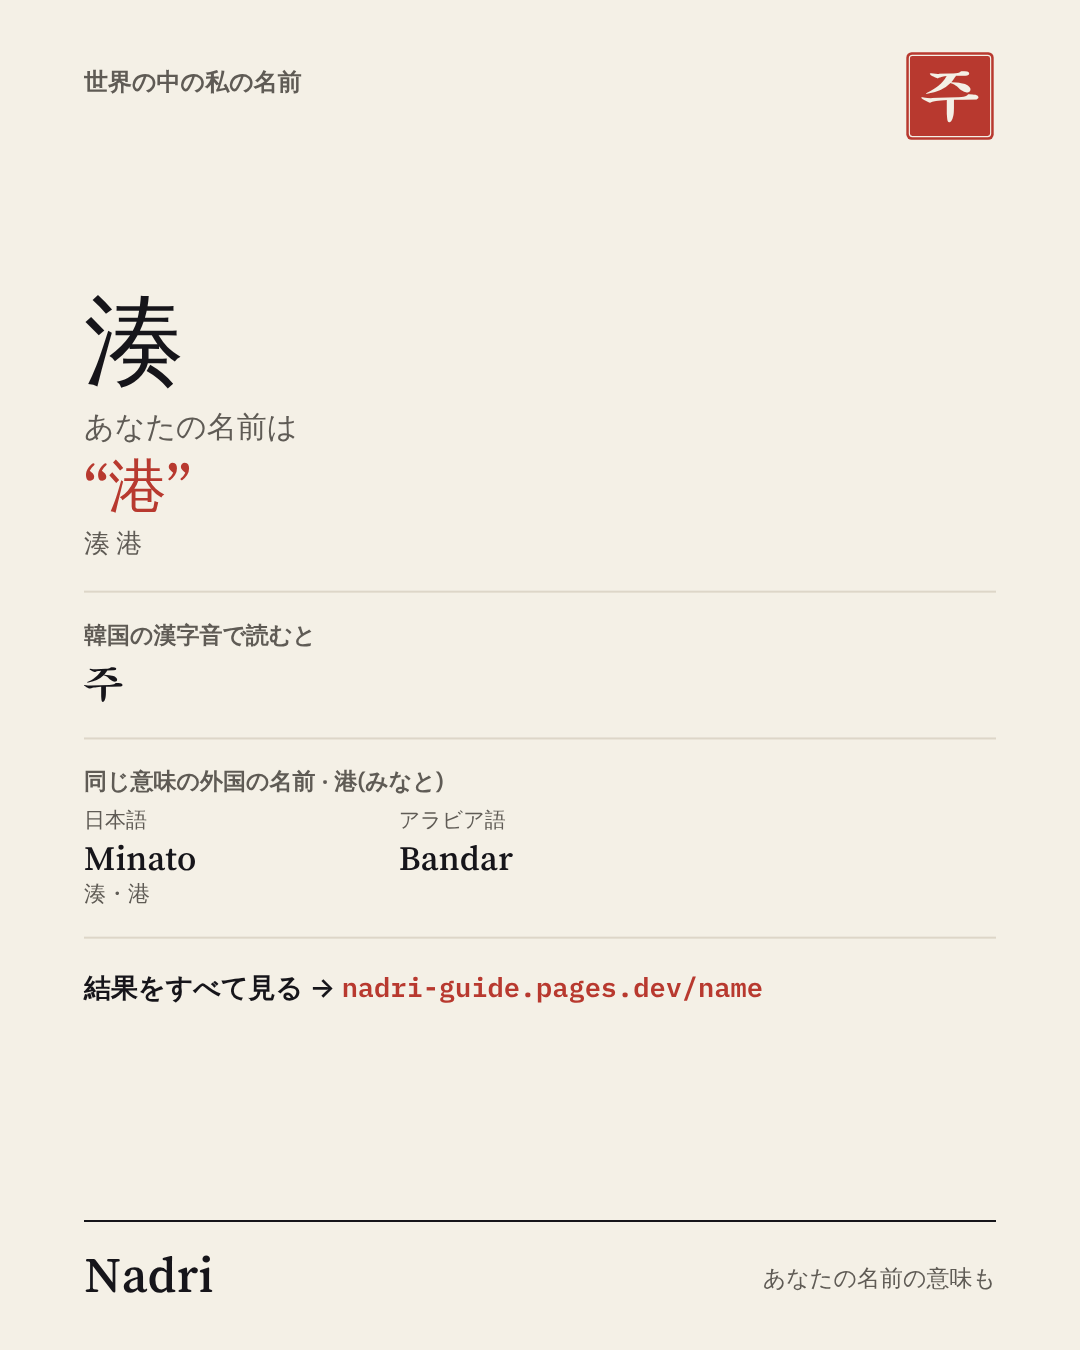
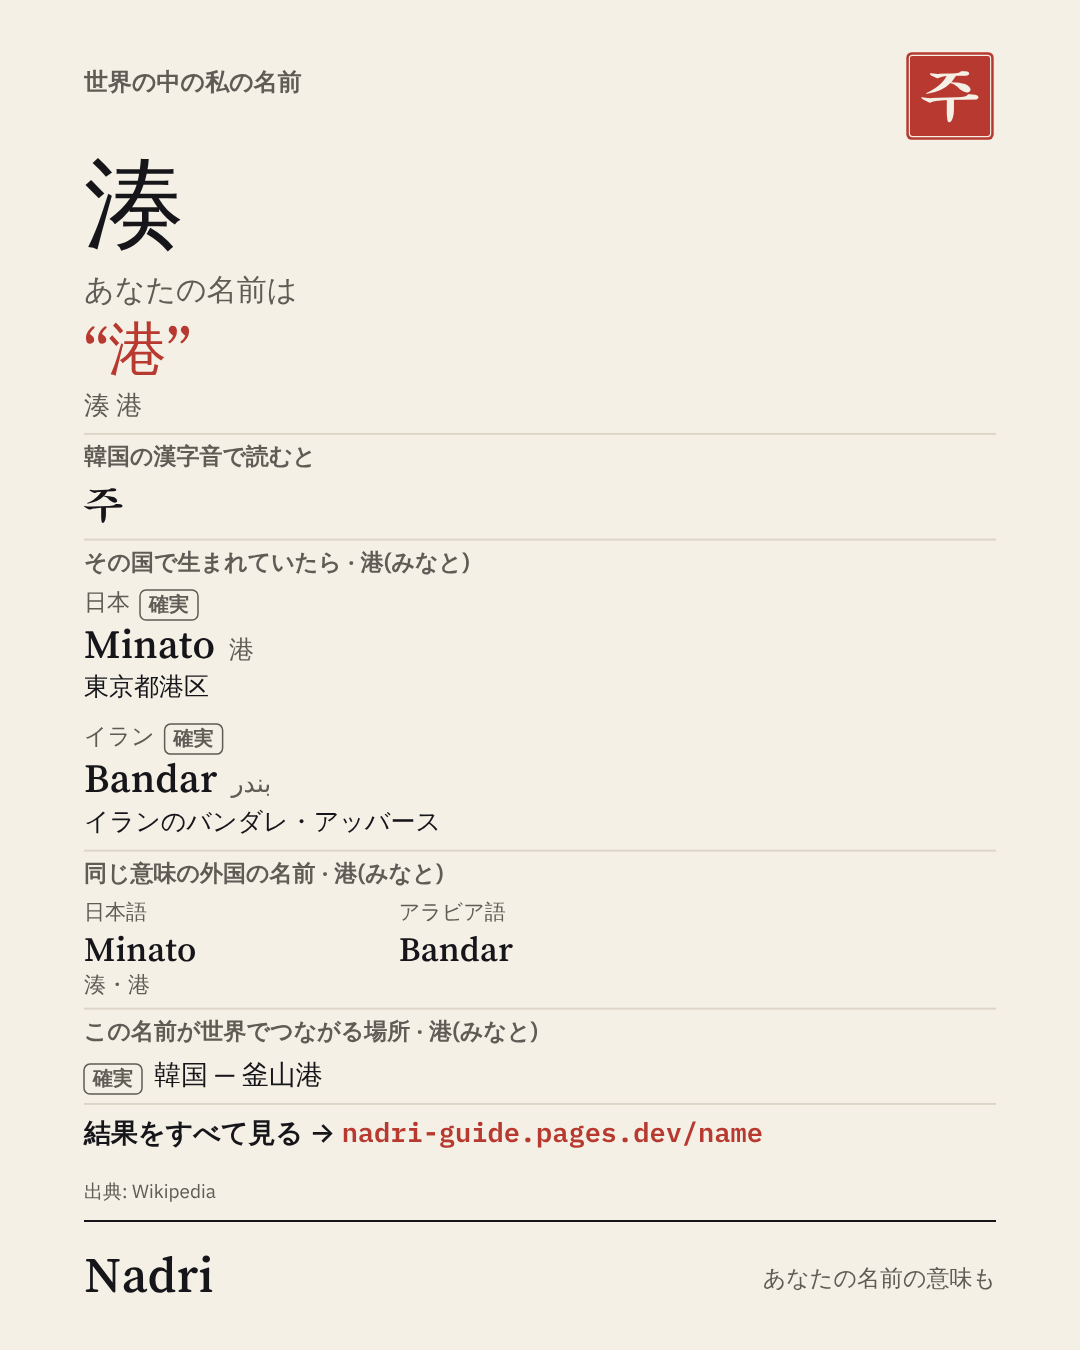
이름 도구: 세계 항목 항구(도쿄 미나토구·반다르아바스·부산항)·초록(미도리노히·Chloe 데메테르·보성 녹차밭), 지역 이란, 항목별 확인일 유지; 湊·翠 카드 갱신
Claude-Session: https://claude.ai/code/session_01SuqWfEwhdH8js6VToC8bPd

diff --git a/static/name-world.js b/static/name-world.js
@@ -18,6 +18,7 @@ window.NADRI_REGIONS = {
   IT: ['🇮🇹', { ko: '이탈리아', en: 'Italy', ja: 'イタリア', zh: '義大利' }],
   VA: ['🇻🇦', { ko: '바티칸', en: 'Vatican City', ja: 'バチカン', zh: '梵蒂岡' }],
   GR: ['🇬🇷', { ko: '그리스', en: 'Greece', ja: 'ギリシャ', zh: '希臘' }],
+  IR: ['🇮🇷', { ko: '이란', en: 'Iran', ja: 'イラン', zh: '伊朗' }],
   TR: ['🇹🇷', { ko: '튀르키예', en: 'Türkiye', ja: 'トルコ', zh: '土耳其' }],
   UA: ['🇺🇦', { ko: '우크라이나', en: 'Ukraine', ja: 'ウクライナ', zh: '烏克蘭' }],
   RU: ['🇷🇺', { ko: '러시아', en: 'Russia', ja: 'ロシア', zh: '俄羅斯' }],
@@ -457,10 +458,51 @@ window.NADRI_REGIONS = {
         ja: 'チリの首都サンティアゴは1541年2月12日、「サンティアゴ・デル・ヌエボ・エストレモ」として創設され、聖ヤコブにちなんで名付けられました。',
         zh: '智利首都聖地牙哥在 1541 年 2 月 12 日以「新極地聖地牙哥」之名建立,名字來自聖雅各。' },
       { r: 'KR', chain: 'santiago' }
+    ],
+    /* 2026-11-28: concepts for common Japanese names (湊 harbour, 翠 green). Pages read 2026-11-28, saved in wondu-archive raw-from-scratchpad/names-2026-11-28/world/. */
+    harbour: [
+      { r: 'JP', n: 'Minato', nn: '港', g: { ko: '도쿄 미나토구(港区)', en: 'Minato City, Tokyo', ja: '東京都港区', zh: '東京都港區' }, c: 'h', d: '2026-11-28',
+        s: [['Wikipedia: Minato, Tokyo', 'https://en.wikipedia.org/wiki/Minato,_Tokyo']],
+        ko: '도쿄의 특별구 미나토구(港区)는 이름에 항구(港, 미나토)를 그대로 써요. 일본어에서 보통명사 미나토는 항구라는 뜻이에요.',
+        en: 'Minato (港区) is a special ward of Tokyo. As a common noun, minato means harbor.',
+        ja: '東京の特別区・港区。普通名詞の「みなと」は港という意味です。',
+        zh: '東京的特別區「港區」(Minato)。日文普通名詞「みなと」就是港口的意思。' },
+      { r: 'IR', n: 'Bandar', nn: 'بندر', g: { ko: '이란 반다르아바스', en: 'Bandar Abbas, Iran', ja: 'イランのバンダレ・アッバース', zh: '伊朗阿巴斯港' }, c: 'h', d: '2026-11-28',
+        s: [['Wikipedia: Bandar Abbas', 'https://en.wikipedia.org/wiki/Bandar_Abbas'], ['Behind the Name: Bandar (meaning search)', 'https://www.behindthename.com/names/meaning/harbour']],
+        ko: '이란 남쪽 페르시아만의 항구 도시 반다르아바스는 아바스 대제의 이름에 반다르(항구)를 붙인 이름으로, \'아바스의 항구\'라는 뜻이에요.',
+        en: 'Bandar Abbas, a port city on Iran\'s Persian Gulf coast, takes its name from Abbas the Great paired with bandar, "port": "Port of Abbas".',
+        ja: 'イラン南部、ペルシャ湾の港町バンダレ・アッバースは、アッバース大帝の名に「バンダル(港)」を付けた名前で、「アッバースの港」という意味です。',
+        zh: '伊朗南部波斯灣的港口城市阿巴斯港,名字是阿拔斯大帝加上 bandar(港口),意思是「阿拔斯的港口」。' },
+      { r: 'KR', g: { ko: '부산항', en: 'Port of Busan', ja: '釜山港', zh: '釜山港' }, c: 'h', d: '2026-11-28', link: '/ktx-busan/',
+        s: [['Wikipedia: Port of Busan', 'https://en.wikipedia.org/wiki/Port_of_Busan']],
+        ko: '부산항은 한국에서 가장 크고 바쁜 항구예요. 2022년 한국 컨테이너 물동량의 4분의 3 넘게를 처리했어요.',
+        en: 'The port of Busan is the largest and busiest port in South Korea, and handled over three-quarters of Korea\'s container shipping in 2022.',
+        ja: '釜山港は韓国で最も大きく、最も忙しい港。2022年には韓国のコンテナ輸送の4分の3以上を扱いました。',
+        zh: '釜山港是韓國最大、最繁忙的港口,2022 年處理了韓國四分之三以上的貨櫃運輸。' }
+    ],
+    green: [
+      { r: 'JP', n: 'Midori', nn: '緑', g: { ko: '일본 미도리노히(5월 4일)', en: 'Greenery Day, May 4', ja: 'みどりの日(5月4日)', zh: '日本綠之日(5月4日)' }, c: 'h', d: '2026-11-28',
+        s: [['Wikipedia: Greenery Day', 'https://en.wikipedia.org/wiki/Greenery_Day']],
+        ko: '일본은 5월 4일을 \'미도리노히(みどりの日, 초록의 날)\'라는 공휴일로 정해, 자연과 가까이하고 그 은혜에 감사하는 날로 삼아요.',
+        en: 'Japan keeps May 4 as Greenery Day (みどりの日, Midori no Hi), a public holiday to commune with nature and be thankful for its blessings.',
+        ja: '日本では5月4日が祝日「みどりの日」。自然に親しみ、その恵みに感謝する日です。',
+        zh: '日本把 5 月 4 日定為國定假日「綠之日」(みどりの日),是親近自然、感謝自然恩惠的日子。' },
+      { r: 'GR', n: 'Chloe', nn: 'Χλόη', g: { ko: '여신 데메테르의 별칭', en: 'an epithet of Demeter', ja: '女神デメテルの別名', zh: '女神狄蜜特的稱號' }, c: 'legend', d: '2026-11-28',
+        s: [['Behind the Name: Chloe', 'https://www.behindthename.com/name/chloe']],
+        ko: 'Chloe는 그리스어로 \'초록 새싹\', 봄에 돋는 새 풀을 뜻해요. 그리스 신화에서 여신 데메테르의 별칭이기도 했어요.',
+        en: 'Chloe means "green shoot" in Greek, the new plant growth of spring. It was an epithet of the Greek goddess Demeter.',
+        ja: 'Chloeはギリシャ語で「緑の新芽」、春に出る新しい草のこと。ギリシャ神話では女神デメテルの別名でもありました。',
+        zh: 'Chloe 在希臘文是「綠芽」,指春天新長的植物。在希臘神話裡也是女神狄蜜特的稱號。' },
+      { r: 'KR', g: { ko: '보성 녹차밭', en: 'Boseong green tea fields', ja: '宝城の緑茶畑', zh: '寶城綠茶園' }, c: 'h', d: '2026-11-28',
+        s: [['Wikipedia: Boseong County', 'https://en.wikipedia.org/wiki/Boseong_County']],
+        ko: '한국 보성군은 녹차 잎으로 유명해요. 26.71헥타르의 땅에서 녹차를 길러요.',
+        en: 'Boseong County in South Korea is famous for its green tea leaves, with 26.71 hectares of land dedicated to growing them.',
+        ja: '韓国の宝城(ポソン)郡は緑茶の葉で有名。26.71ヘクタールの土地で緑茶を育てています。',
+        zh: '韓國寶城郡以綠茶葉聞名,有 26.71 公頃的土地種植綠茶。' }
     ]
   };
   /* Korean readings of the names (shown in the Korean interface, loanword rules) */
-  var NK = { Estrella: '에스트레야', Stella: '스텔라', Hoshiko: '호시코', Xing: '싱', 'Hōkūleʻa': '호쿠레아', Najma: '나지마', Bilge: '빌게', Sophia: '소피아', Hui: '후이', Chie: '지에', Kazu: '가즈', Paz: '파스', Ping: '핑', Irene: '이레네', Lucia: '루시아', Jyoti: '조티', Svetlana: '스베틀라나', Nur: '누르', Guang: '광', Hikari: '히카리', Yu: '위', Lulu: '룰루', Tama: '다마', Margarita: '마르가리타', Moana: '모아나', Hai: '하이', Flora: '플로라', Hana: '하나', Pua: '푸아', William: '윌리엄', Alexander: '알렉산드로스', Mamoru: '마모루', Raja: '라자', Basil: '바실', Wang: '왕', Neve: '네베', Yuki: '유키', Xue: '쉐', Yue: '웨', Qamar: '카마르', Luna: '루나', Surya: '수리아', Hinata: '히나타', Helios: '헬리오스', Santiago: '산티아고', Jacques: '자크' };
-  Object.keys(W).forEach(function (k) { W[k].forEach(function (e) { if (!e.chain) e.d = D; if (e.n && NK[e.n]) e.nk = NK[e.n]; }); });
+  var NK = { Minato: '미나토', Bandar: '반다르', Midori: '미도리', Chloe: '클로이', Estrella: '에스트레야', Stella: '스텔라', Hoshiko: '호시코', Xing: '싱', 'Hōkūleʻa': '호쿠레아', Najma: '나지마', Bilge: '빌게', Sophia: '소피아', Hui: '후이', Chie: '지에', Kazu: '가즈', Paz: '파스', Ping: '핑', Irene: '이레네', Lucia: '루시아', Jyoti: '조티', Svetlana: '스베틀라나', Nur: '누르', Guang: '광', Hikari: '히카리', Yu: '위', Lulu: '룰루', Tama: '다마', Margarita: '마르가리타', Moana: '모아나', Hai: '하이', Flora: '플로라', Hana: '하나', Pua: '푸아', William: '윌리엄', Alexander: '알렉산드로스', Mamoru: '마모루', Raja: '라자', Basil: '바실', Wang: '왕', Neve: '네베', Yuki: '유키', Xue: '쉐', Yue: '웨', Qamar: '카마르', Luna: '루나', Surya: '수리아', Hinata: '히나타', Helios: '헬리오스', Santiago: '산티아고', Jacques: '자크' };
+  Object.keys(W).forEach(function (k) { W[k].forEach(function (e) { if (!e.chain && !e.d) e.d = D; if (e.n && NK[e.n]) e.nk = NK[e.n]; }); });
   window.NADRI_WORLD = W;
 })();
